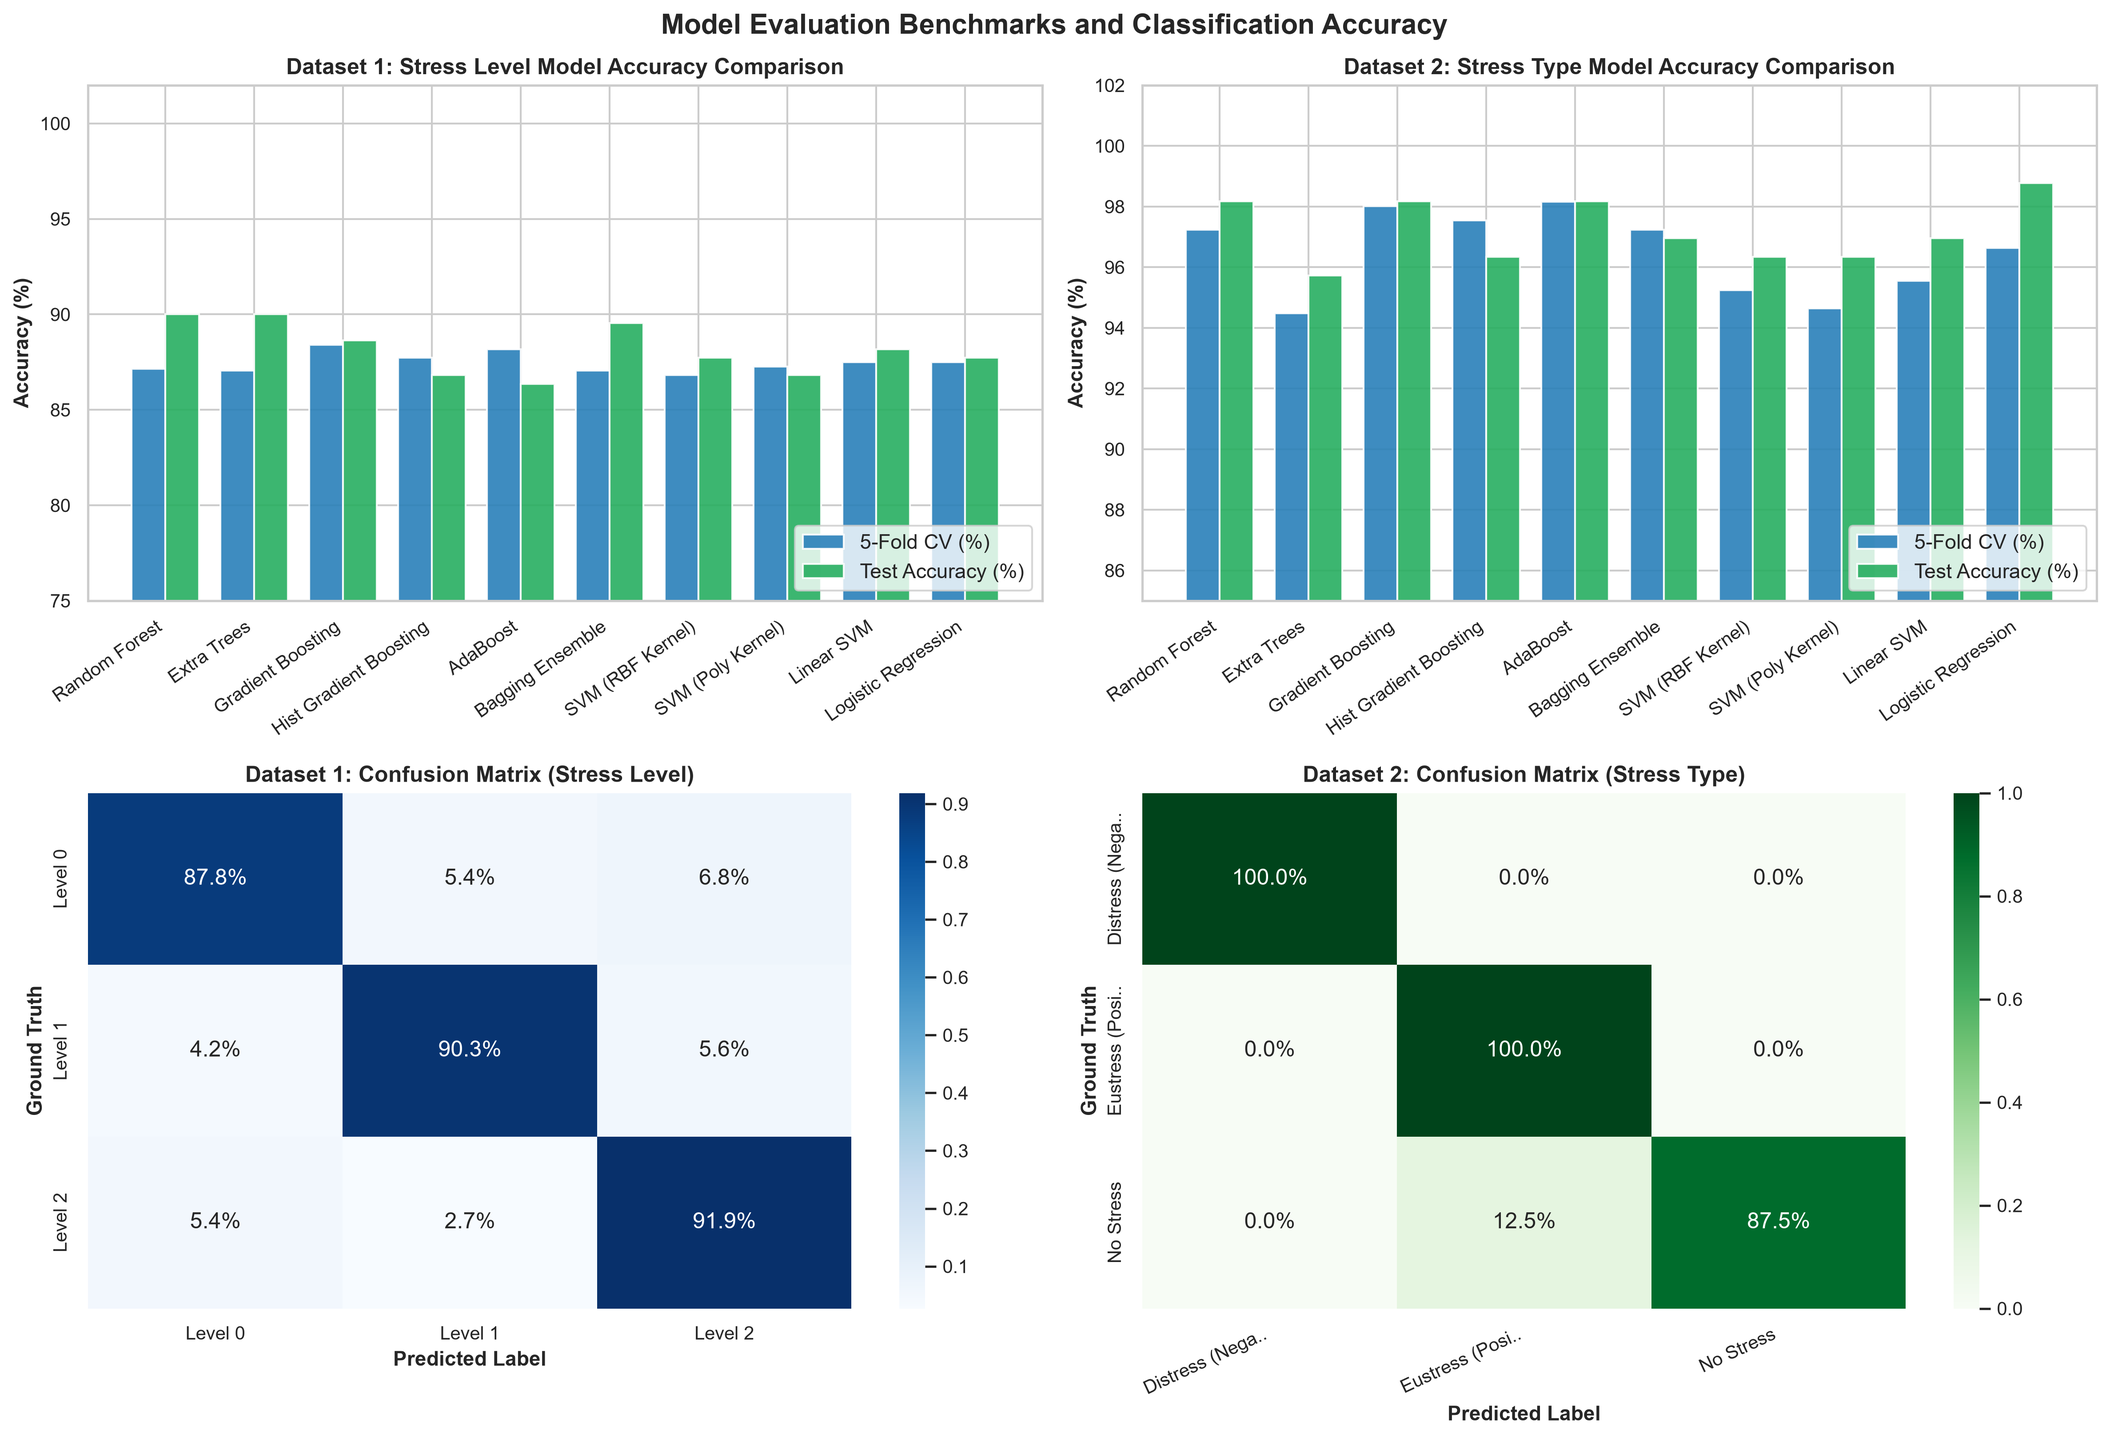
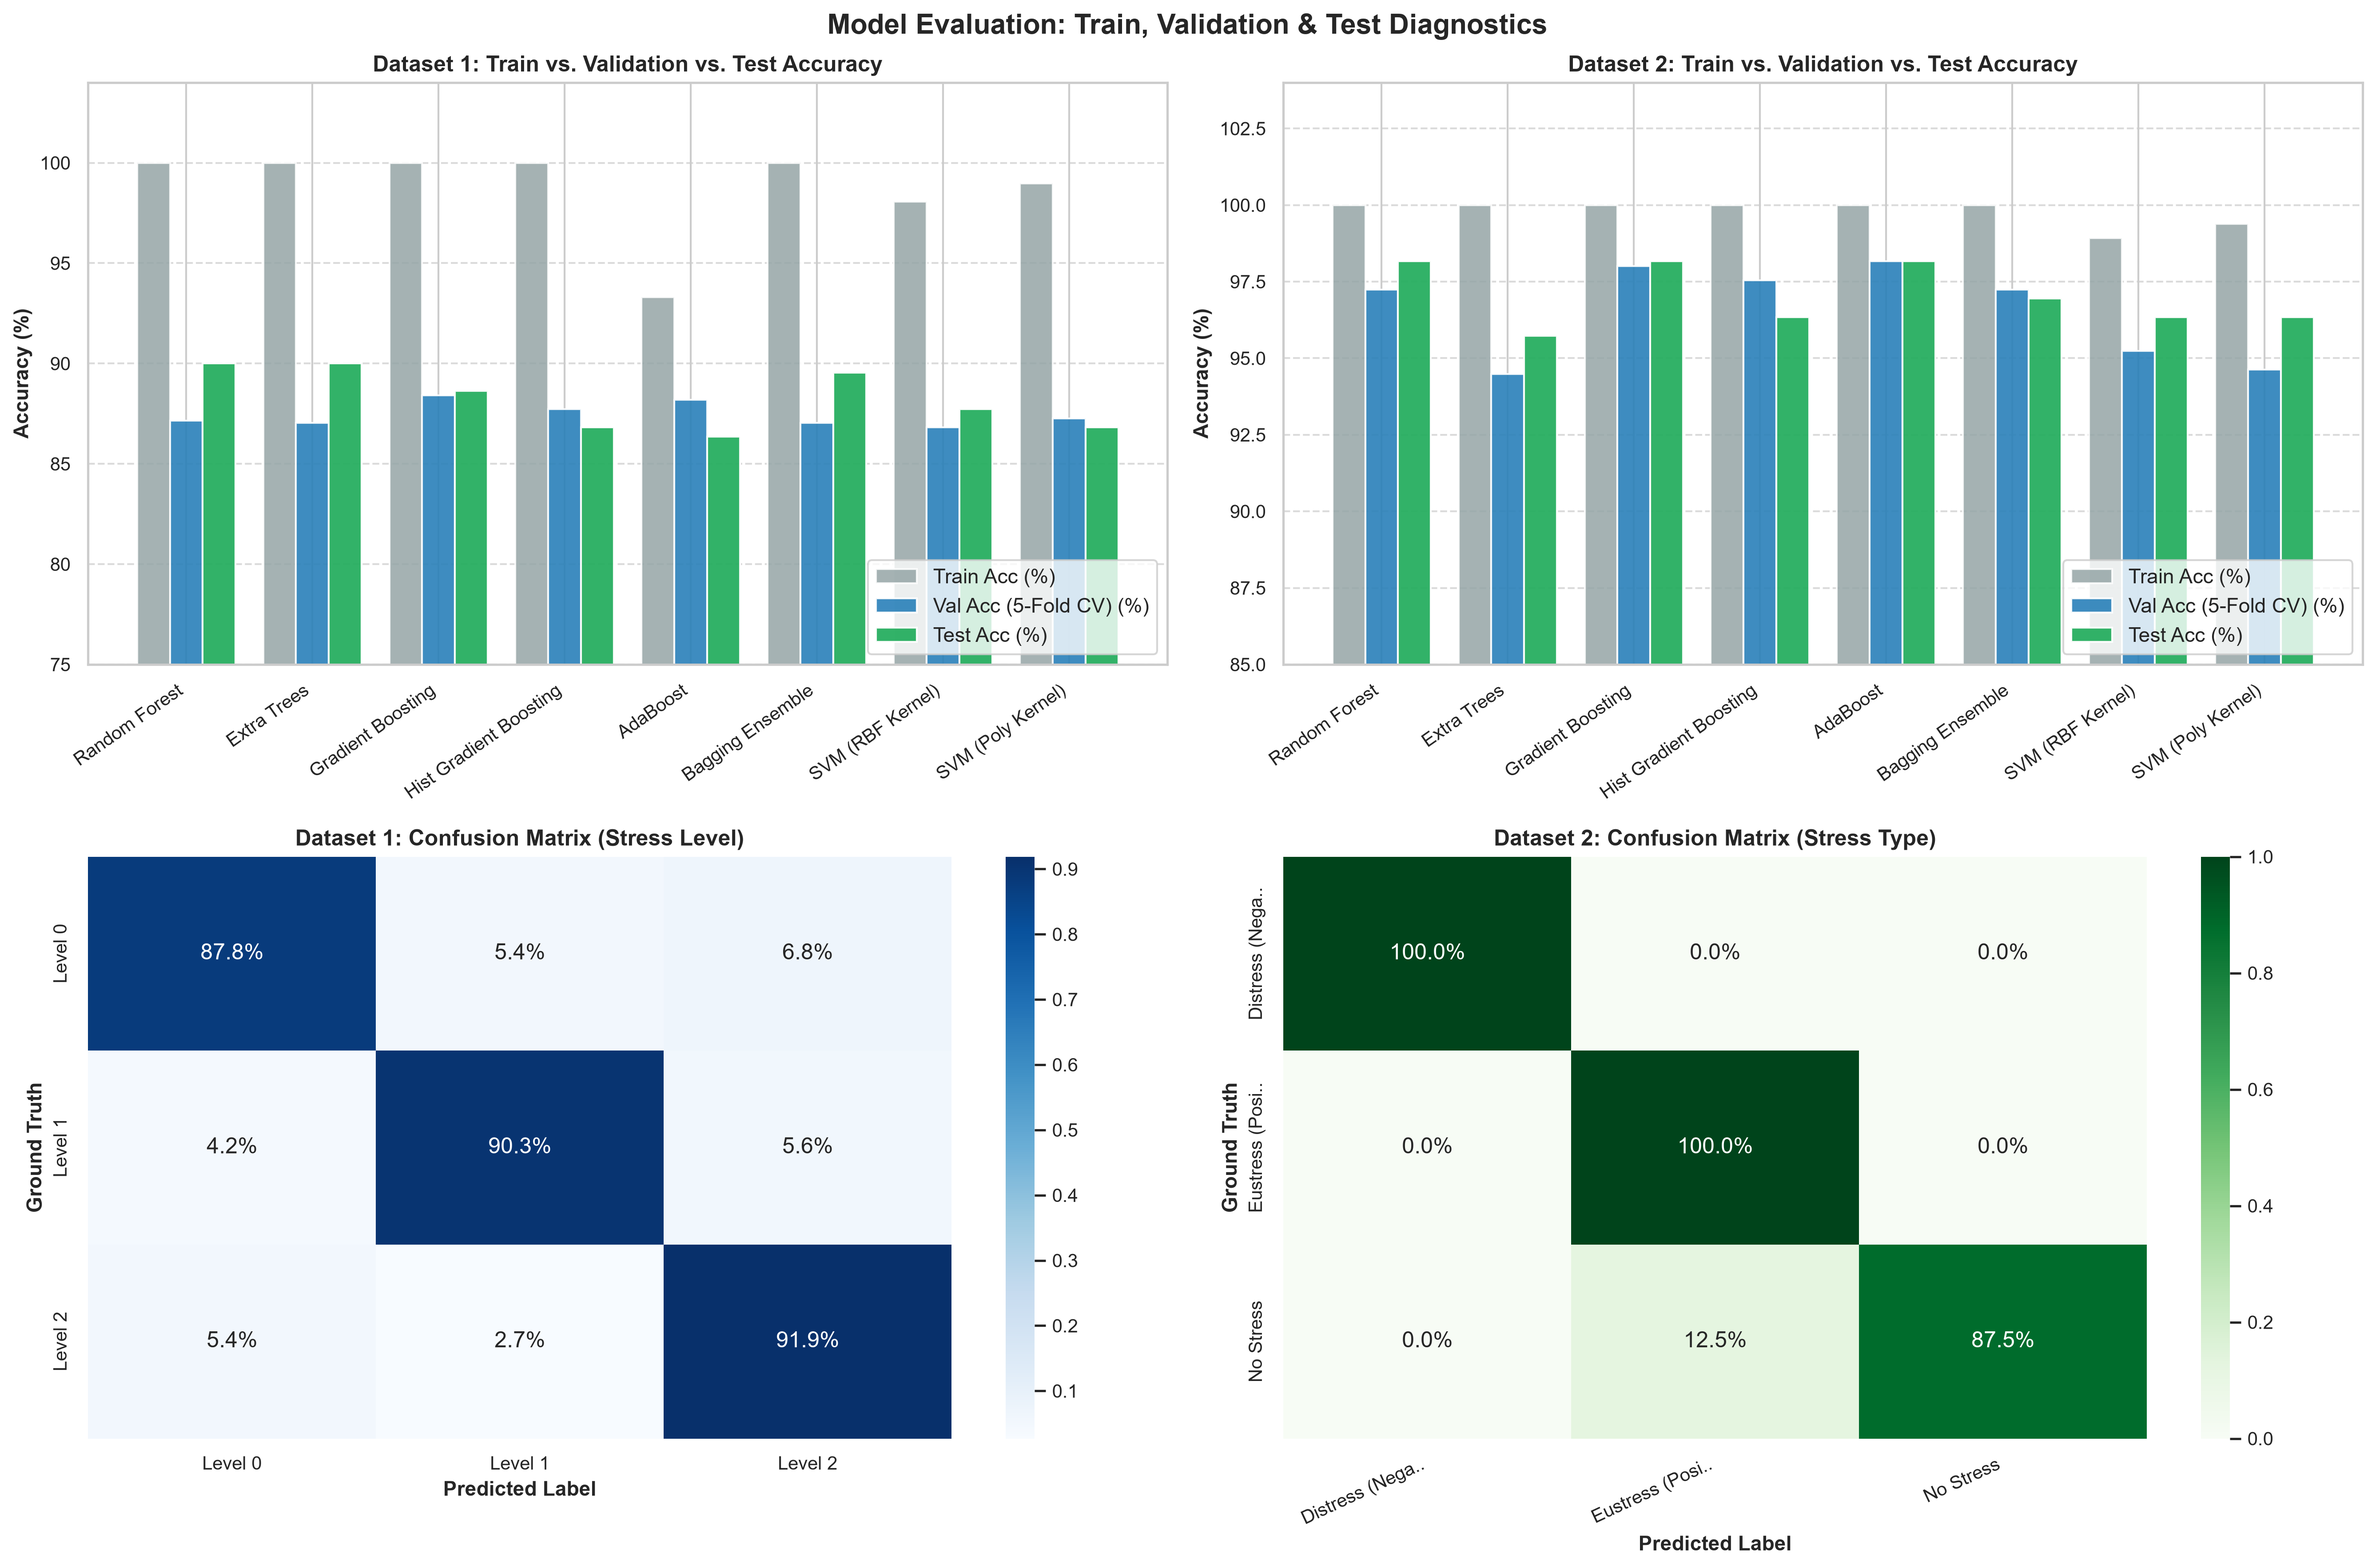
Add validation accuracy reporting and update diagnostic visualizations

diff --git a/src/visualize.py b/src/visualize.py
@@ -1,8 +1,8 @@
 """
 Streamlined Visualization Engine.
 Produces 2 focused, publication-grade diagnostic figures:
-1. benchmark_and_confusion.png
-2. feature_importance_ranking.png
+1. benchmark_and_confusion.png (Train, Validation, and Test accuracy comparison + Confusion Matrices)
+2. feature_importance_ranking.png (Ranked explanatory stress determinants)
 """
 
 from pathlib import Path
@@ -49,40 +49,50 @@ class DiagnosticPlotter:
         output_filename: str = "benchmark_and_confusion.png"
     ) -> Path:
         """
-        Unified 4-panel dashboard combining performance benchmarks and confusion matrices.
+        Unified 4-panel dashboard combining Train/Val/Test performance benchmarks and confusion matrices.
         """
-        fig, axes = plt.subplots(2, 2, figsize=(16, 11))
+        fig, axes = plt.subplots(2, 2, figsize=(18, 12))
 
         # Panel (0, 0): Dataset 1 Model Benchmark
         ax_b1 = axes[0, 0]
-        models_1 = list(results_dataset_1.keys())[:10]  # Show top 10 models for clarity
-        cv_1 = [results_dataset_1[m]['cross_val_mean'] * 100 for m in models_1]
+        models_1 = list(results_dataset_1.keys())[:8]  # Top 8 models for clean visibility
+        train_1 = [results_dataset_1[m]['train_accuracy'] * 100 for m in models_1]
+        val_1 = [results_dataset_1[m]['validation_accuracy'] * 100 for m in models_1]
         test_1 = [results_dataset_1[m]['holdout_accuracy'] * 100 for m in models_1]
+        
         x_idx1 = np.arange(len(models_1))
-        bar_w = 0.38
-        ax_b1.bar(x_idx1 - bar_w/2, cv_1, bar_w, label='5-Fold CV (%)', color='#2980b9', alpha=0.9)
-        ax_b1.bar(x_idx1 + bar_w/2, test_1, bar_w, label='Test Accuracy (%)', color='#27ae60', alpha=0.9)
-        ax_b1.set_title("Dataset 1: Stress Level Model Accuracy Comparison")
+        bar_w = 0.26
+        ax_b1.bar(x_idx1 - bar_w, train_1, bar_w, label='Train Acc (%)', color='#95a5a6', alpha=0.85)
+        ax_b1.bar(x_idx1, val_1, bar_w, label='Val Acc (5-Fold CV) (%)', color='#2980b9', alpha=0.9)
+        ax_b1.bar(x_idx1 + bar_w, test_1, bar_w, label='Test Acc (%)', color='#27ae60', alpha=0.95)
+        
+        ax_b1.set_title("Dataset 1: Train vs. Validation vs. Test Accuracy")
         ax_b1.set_ylabel("Accuracy (%)")
         ax_b1.set_xticks(x_idx1)
         ax_b1.set_xticklabels(models_1, rotation=35, ha='right')
-        ax_b1.set_ylim([75, 102])
+        ax_b1.set_ylim([75, 104])
         ax_b1.legend(loc='lower right')
+        ax_b1.grid(axis='y', linestyle='--', alpha=0.7)
 
         # Panel (0, 1): Dataset 2 Model Benchmark
         ax_b2 = axes[0, 1]
-        models_2 = list(results_dataset_2.keys())[:10]
-        cv_2 = [results_dataset_2[m]['cross_val_mean'] * 100 for m in models_2]
+        models_2 = list(results_dataset_2.keys())[:8]
+        train_2 = [results_dataset_2[m]['train_accuracy'] * 100 for m in models_2]
+        val_2 = [results_dataset_2[m]['validation_accuracy'] * 100 for m in models_2]
         test_2 = [results_dataset_2[m]['holdout_accuracy'] * 100 for m in models_2]
+        
         x_idx2 = np.arange(len(models_2))
-        ax_b2.bar(x_idx2 - bar_w/2, cv_2, bar_w, label='5-Fold CV (%)', color='#2980b9', alpha=0.9)
-        ax_b2.bar(x_idx2 + bar_w/2, test_2, bar_w, label='Test Accuracy (%)', color='#27ae60', alpha=0.9)
-        ax_b2.set_title("Dataset 2: Stress Type Model Accuracy Comparison")
+        ax_b2.bar(x_idx2 - bar_w, train_2, bar_w, label='Train Acc (%)', color='#95a5a6', alpha=0.85)
+        ax_b2.bar(x_idx2, val_2, bar_w, label='Val Acc (5-Fold CV) (%)', color='#2980b9', alpha=0.9)
+        ax_b2.bar(x_idx2 + bar_w, test_2, bar_w, label='Test Acc (%)', color='#27ae60', alpha=0.95)
+        
+        ax_b2.set_title("Dataset 2: Train vs. Validation vs. Test Accuracy")
         ax_b2.set_ylabel("Accuracy (%)")
         ax_b2.set_xticks(x_idx2)
         ax_b2.set_xticklabels(models_2, rotation=35, ha='right')
-        ax_b2.set_ylim([85, 102])
+        ax_b2.set_ylim([85, 104])
         ax_b2.legend(loc='lower right')
+        ax_b2.grid(axis='y', linestyle='--', alpha=0.7)
 
         # Panel (1, 0): Dataset 1 Normalized Confusion Matrix
         ax_cm1 = axes[1, 0]
@@ -109,7 +119,7 @@ class DiagnosticPlotter:
         ax_cm2.set_ylabel("Ground Truth")
         ax_cm2.set_xticklabels(ax_cm2.get_xticklabels(), rotation=25, ha='right')
 
-        plt.suptitle("Model Evaluation Benchmarks and Classification Accuracy", fontsize=15, fontweight='bold')
+        plt.suptitle("Model Evaluation: Train, Validation & Test Diagnostics", fontsize=15, fontweight='bold')
         plt.tight_layout()
 
         destination_path = self.export_directory / output_filename

diff --git a/run_pipeline.py b/run_pipeline.py
@@ -22,11 +22,29 @@ from src.evaluate import AssessmentDiagnostics
 from src.visualize import DiagnosticPlotter
 
 
+def print_performance_table(benchmark_dict: dict, dataset_name: str) -> None:
+    """Print a clean comparative summary table for all models."""
+    print(f"\n{'=' * 88}")
+    print(f"MODEL BENCHMARK SUMMARY TABLE: {dataset_name.upper()}")
+    print(f"{'=' * 88}")
+    print(f"{'Model Name':<28} {'Train Acc':<12} {'Val Acc (5-Fold CV)':<22} {'Test Acc':<12} {'Test F1':<10}")
+    print("-" * 88)
+    for model_name, data in benchmark_dict.items():
+        print(
+            f"{model_name:<28} "
+            f"{data['train_accuracy']*100:>8.2f}%   "
+            f"{data['validation_accuracy']*100:>7.2f}% (+/- {data['validation_std']*200:>4.2f}%)   "
+            f"{data['holdout_accuracy']*100:>7.2f}%   "
+            f"{data['holdout_f1']:>8.4f}"
+        )
+    print("-" * 88)
+
+
 def execute_stress_analysis_pipeline() -> None:
     """Execute the end-to-end model training, validation, and diagnostics pipeline."""
-    print("=" * 80)
+    print("=" * 88)
     print("STUDENT MENTAL HEALTH & STRESS PREDICTION PIPELINE")
-    print("=" * 80)
+    print("=" * 88)
 
     # Step 1: Initialize storage destinations
     initialize_output_directories()
@@ -97,26 +115,32 @@ def execute_stress_analysis_pipeline() -> None:
         k_folds=app_config.STRATIFIED_K_FOLDS
     )
 
+    # Print clean benchmark tables
+    print_performance_table(benchmark_d1, "Dataset 1 - Stress Level")
+    print_performance_table(benchmark_d2, "Dataset 2 - Stress Type")
+
     # Step 6: Identify Champions and Diagnostic Evaluation
     print("\n[Phase 5] Champion Model Selection & Metrics Report...")
     champion_name_1, champion_data_1 = AssessmentDiagnostics.pick_champion_model(benchmark_d1)
     champion_name_2, champion_data_2 = AssessmentDiagnostics.pick_champion_model(benchmark_d2)
 
-    print("-" * 80)
-    print(f"DATASET 1 CHAMPION: {champion_name_1}")
-    print(f" - 5-Fold CV Accuracy: {champion_data_1['cross_val_mean']:.4f} (+/- {champion_data_1['cross_val_std']*2:.4f})")
-    print(f" - Holdout Accuracy:   {champion_data_1['holdout_accuracy']:.4f}")
-    print(f" - Weighted F1 Score:  {champion_data_1['holdout_f1']:.4f}")
+    print("=" * 88)
+    print(f"[CHAMPION MODEL] DATASET 1: {champion_name_1}")
+    print(f"   - Train Accuracy:      {champion_data_1['train_accuracy']*100:.2f}%")
+    print(f"   - Validation Accuracy: {champion_data_1['validation_accuracy']*100:.2f}% (+/- {champion_data_1['validation_std']*200:.2f}%)")
+    print(f"   - Test Accuracy:       {champion_data_1['holdout_accuracy']*100:.2f}%")
+    print(f"   - Test F1 Score:       {champion_data_1['holdout_f1']:.4f}")
     print("\nDetailed Classification Breakdown:")
     print(AssessmentDiagnostics.build_classification_text_report(
         test_y1.values, champion_data_1['test_predictions'], category_names=['Level 0', 'Level 1', 'Level 2']
     ))
 
-    print("-" * 80)
-    print(f"DATASET 2 CHAMPION: {champion_name_2}")
-    print(f" - 5-Fold CV Accuracy: {champion_data_2['cross_val_mean']:.4f} (+/- {champion_data_2['cross_val_std']*2:.4f})")
-    print(f" - Holdout Accuracy:   {champion_data_2['holdout_accuracy']:.4f}")
-    print(f" - Weighted F1 Score:  {champion_data_2['holdout_f1']:.4f}")
+    print("=" * 88)
+    print(f"[CHAMPION MODEL] DATASET 2: {champion_name_2}")
+    print(f"   - Train Accuracy:      {champion_data_2['train_accuracy']*100:.2f}%")
+    print(f"   - Validation Accuracy: {champion_data_2['validation_accuracy']*100:.2f}% (+/- {champion_data_2['validation_std']*200:.2f}%)")
+    print(f"   - Test Accuracy:       {champion_data_2['holdout_accuracy']*100:.2f}%")
+    print(f"   - Test F1 Score:       {champion_data_2['holdout_f1']:.4f}")
     print("\nDetailed Classification Breakdown:")
     print(AssessmentDiagnostics.build_classification_text_report(
         test_y2.values, champion_data_2['test_predictions'], category_names=list(encoder_d2.classes_)
@@ -166,9 +190,9 @@ def execute_stress_analysis_pipeline() -> None:
     print(" - stress_level_model.joblib")
     print(" - stress_type_model.joblib")
 
-    print("\n" + "=" * 80)
+    print("\n" + "=" * 88)
     print("PIPELINE EXECUTION COMPLETE & VERIFIED!")
-    print("=" * 80)
+    print("=" * 88)
 
 
 if __name__ == '__main__':

diff --git a/src/models.py b/src/models.py
@@ -121,7 +121,7 @@ class ModelBenchmarkingService:
     ) -> Dict[str, Dict[str, Any]]:
         """
         Fit each candidate model, evaluate k-fold cross validation on training data,
-        and assess generalization accuracy on the held-out test split.
+        and assess training accuracy, validation accuracy, and holdout test accuracy.
         """
         portfolio = build_candidate_classifier_suite(random_seed=random_seed)
         cv_strategy = StratifiedKFold(n_splits=k_folds, shuffle=True, random_state=random_seed)
@@ -129,27 +129,38 @@ class ModelBenchmarkingService:
 
         for model_name, estimator in portfolio.items():
             try:
+                # 1. Validation Accuracy via K-Fold Cross Validation
                 cv_scores = cross_val_score(
                     estimator, scaled_train_x, train_y, cv=cv_strategy, scoring='accuracy'
                 )
+                validation_accuracy = float(cv_scores.mean())
+                validation_std = float(cv_scores.std())
+
+                # 2. Fit model and compute Training Accuracy
                 estimator.fit(scaled_train_x, train_y)
-                predicted_labels = estimator.predict(scaled_test_x)
+                train_predictions = estimator.predict(scaled_train_x)
+                train_accuracy = float(accuracy_score(train_y, train_predictions))
+
+                # 3. Predict on Held-Out Test Data
+                test_predictions = estimator.predict(scaled_test_x)
+                test_accuracy = float(accuracy_score(test_y, test_predictions))
+                test_f1 = float(f1_score(test_y, test_predictions, average='weighted'))
 
                 predicted_probabilities = (
                     estimator.predict_proba(scaled_test_x)
                     if hasattr(estimator, 'predict_proba') else None
                 )
 
-                test_accuracy = accuracy_score(test_y, predicted_labels)
-                test_f1 = f1_score(test_y, predicted_labels, average='weighted')
-
                 benchmark_summary[model_name] = {
                     'fitted_estimator': estimator,
-                    'cross_val_mean': float(cv_scores.mean()),
-                    'cross_val_std': float(cv_scores.std()),
-                    'holdout_accuracy': float(test_accuracy),
-                    'holdout_f1': float(test_f1),
-                    'test_predictions': predicted_labels,
+                    'train_accuracy': train_accuracy,
+                    'validation_accuracy': validation_accuracy,
+                    'validation_std': validation_std,
+                    'cross_val_mean': validation_accuracy,
+                    'cross_val_std': validation_std,
+                    'holdout_accuracy': test_accuracy,
+                    'holdout_f1': test_f1,
+                    'test_predictions': test_predictions,
                     'test_probabilities': predicted_probabilities
                 }
             except Exception as failure_reason:
